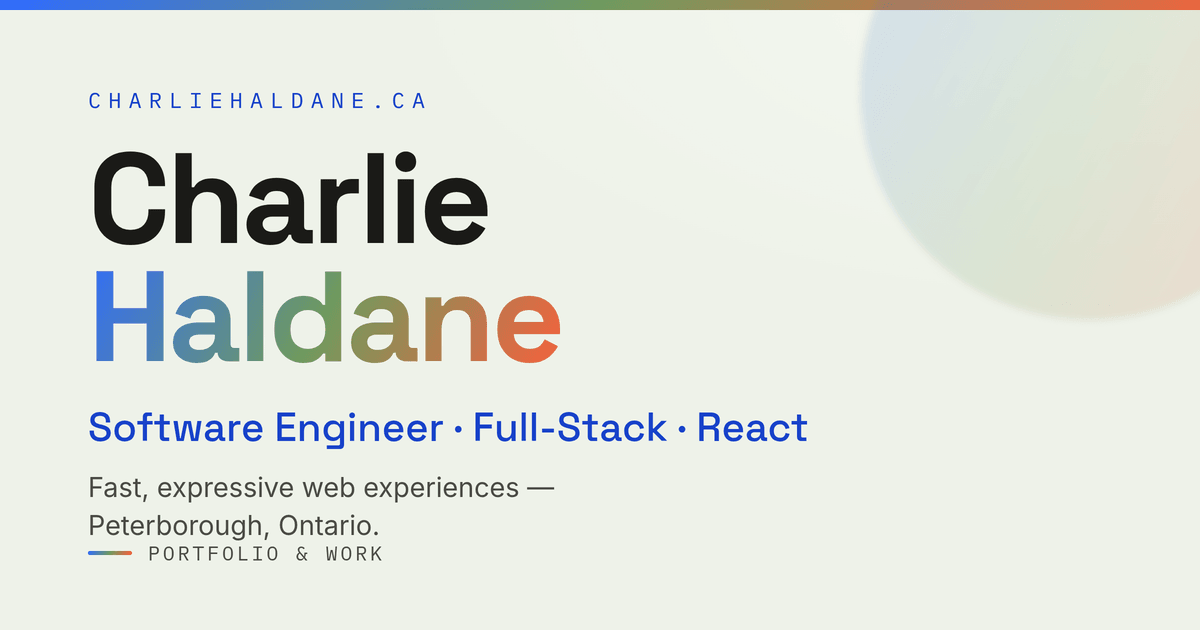
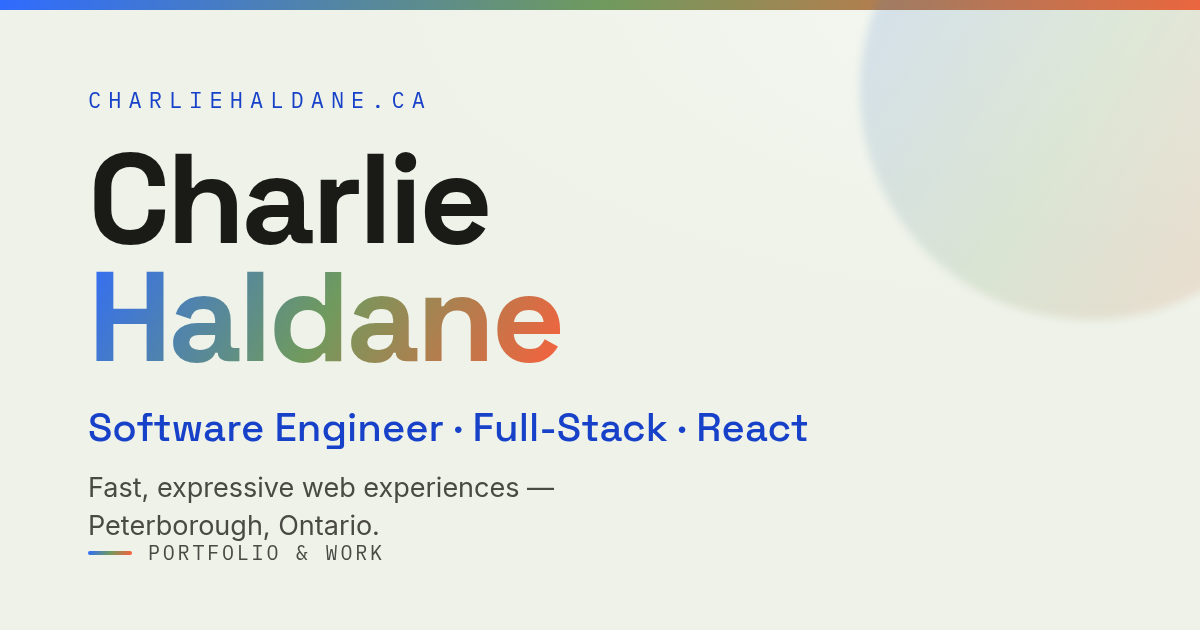
chore: add regenerable OG social-card source (og/)
og/og.html + og/build.mjs render public/og-image.png via headless Chrome,
reusing the base64 fonts from resume/. Edit og.html, run `node og/build.mjs`.
Regenerates the committed card (1200x630) so it matches the script output.

diff --git a/og/og.html b/og/og.html
@@ -1,0 +1,78 @@
+<!doctype html>
+<html lang="en">
+<head>
+<meta charset="utf-8">
+<!-- Reuse the fonts already embedded for the résumé (base64, offline). -->
+<link rel="stylesheet" href="../resume/fonts.css">
+<style>
+  :root {
+    --ink: #1a1a17;
+    --ink-soft: #4a4a44;
+    --paper: #eef2e9;
+    --blue: #2f6bff;
+    --blue-deep: #1741c9;
+    --sage: #6f9a5e;
+    --accent: #ff5d3b;
+    --grad: linear-gradient(120deg, var(--blue), var(--sage), var(--accent));
+  }
+  * { margin: 0; box-sizing: border-box; }
+  html, body { width: 1200px; height: 630px; }
+  .og {
+    position: relative;
+    width: 1200px;
+    height: 630px;
+    overflow: hidden;
+    background:
+      radial-gradient(120% 90% at 100% 0%, #f5f8f1 0%, var(--paper) 55%),
+      var(--paper);
+    color: var(--ink);
+    font-family: "Inter", system-ui, sans-serif;
+    padding: 84px 88px;
+    display: flex;
+    flex-direction: column;
+    justify-content: center;
+  }
+  .og-bar { position: absolute; top: 0; left: 0; right: 0; height: 10px; background: var(--grad); }
+  .og-orb {
+    position: absolute; top: -140px; right: -120px;
+    width: 460px; height: 460px; border-radius: 50%;
+    background: var(--grad); opacity: 0.16; filter: blur(4px);
+  }
+  .og-eyebrow {
+    font-family: "IBM Plex Mono", monospace;
+    font-size: 22px; letter-spacing: 0.32em; text-transform: uppercase;
+    color: var(--blue-deep); margin-bottom: 26px;
+  }
+  .og-name {
+    font-family: "Space Grotesk", sans-serif;
+    font-weight: 700; font-size: 128px; line-height: 0.92; letter-spacing: -0.03em;
+  }
+  .og-name .grad {
+    background: var(--grad); -webkit-background-clip: text; background-clip: text; color: transparent;
+  }
+  .og-title {
+    font-family: "Space Grotesk", sans-serif;
+    font-weight: 500; font-size: 40px; color: var(--blue-deep); margin-top: 26px;
+  }
+  .og-tag { font-size: 27px; line-height: 1.4; color: var(--ink-soft); margin-top: 16px; max-width: 30ch; }
+  .og-foot {
+    position: absolute; left: 88px; bottom: 64px;
+    display: flex; align-items: center; gap: 16px;
+    font-family: "IBM Plex Mono", monospace;
+    font-size: 20px; letter-spacing: 0.14em; text-transform: uppercase; color: var(--ink-soft);
+  }
+  .og-foot .tick { width: 44px; height: 4px; border-radius: 4px; background: var(--grad); }
+</style>
+</head>
+<body>
+  <div class="og">
+    <span class="og-bar"></span>
+    <span class="og-orb"></span>
+    <div class="og-eyebrow">charliehaldane.ca</div>
+    <h1 class="og-name">Charlie<br><span class="grad">Haldane</span></h1>
+    <div class="og-title">Software Engineer · Full-Stack · React</div>
+    <div class="og-tag">Fast, expressive web experiences — Peterborough, Ontario.</div>
+    <div class="og-foot"><span class="tick"></span> Portfolio &amp; Work</div>
+  </div>
+</body>
+</html>

diff --git a/og/README.md b/og/README.md
@@ -1,0 +1,22 @@
+# Social card (OG image)
+
+The link-preview image at `public/og-image.png` is generated from `og.html`,
+so it can be re-rendered any time instead of edited by hand.
+
+It's referenced by the static `og:image` / `twitter:image` tags in
+`public/index.html` (crawler-visible on every route, since this is a
+client-rendered SPA).
+
+## Regenerate
+
+1. Edit `og.html` (name, title, tagline — same design tokens as the site).
+2. Render:
+   ```bash
+   node og/build.mjs
+   ```
+   Requires a Chrome/Chromium binary on `PATH`. Fonts are pulled from
+   `../resume/fonts.css` (base64-embedded), so no network is needed.
+3. Commit the updated `public/og-image.png` and push — Vercel redeploys.
+
+The output is 1200×630 (the dimensions declared in `index.html`). If you change
+the size, update the `og:image:width` / `og:image:height` meta tags to match.
